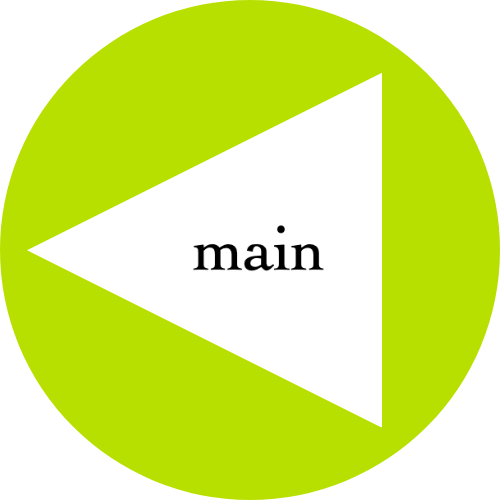
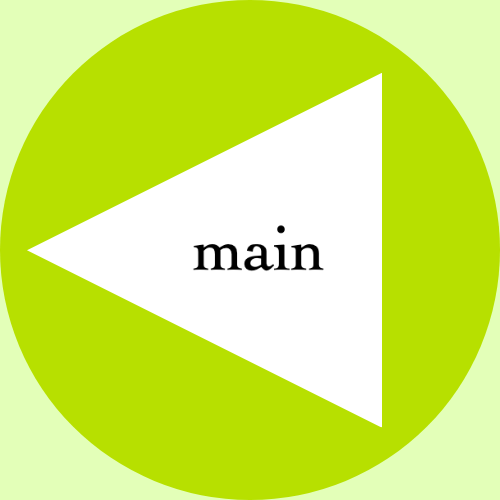
compare style

diff --git a/Dashboard/scripts/static/compare.css b/Dashboard/scripts/static/compare.css
@@ -3,6 +3,9 @@
     flex-direction: column;
     min-height: 85vh;
 }
+body {
+    background-color: #E3FFB8;
+}
 h1 {
     text-align: center;
     font-size: 50px;
@@ -58,7 +61,6 @@ h2 {
     flex-direction: column;
 }
 #container-3 {
-    margin-bottom: 4em;
     display: grid;
     grid-template-columns: 1fr 1fr;
 }
@@ -89,4 +91,9 @@ h2 {
 .pollutant {
     color: blue;
     font-size: 1.5em;
+}
+#check-read {
+    margin: 2em 2em 3em 2em;
+    text-align: center;
+    font-size: 1.2em;
 }

diff --git a/Dashboard/scripts/templates/compare.html b/Dashboard/scripts/templates/compare.html
@@ -53,6 +53,10 @@
                     <p class="desc"><span class="bold">Recommendation: </span>{{children}}</p>
                 </div>
             </div>
+            <div id="check-read">
+                <input type="checkbox" id="read" name="read" value="read">
+                <label for="read"> I read the description!</label><br>
+            </div>
            
             <!-- aqi: {{aqi}} <br>
             category: {{category}} <br>
